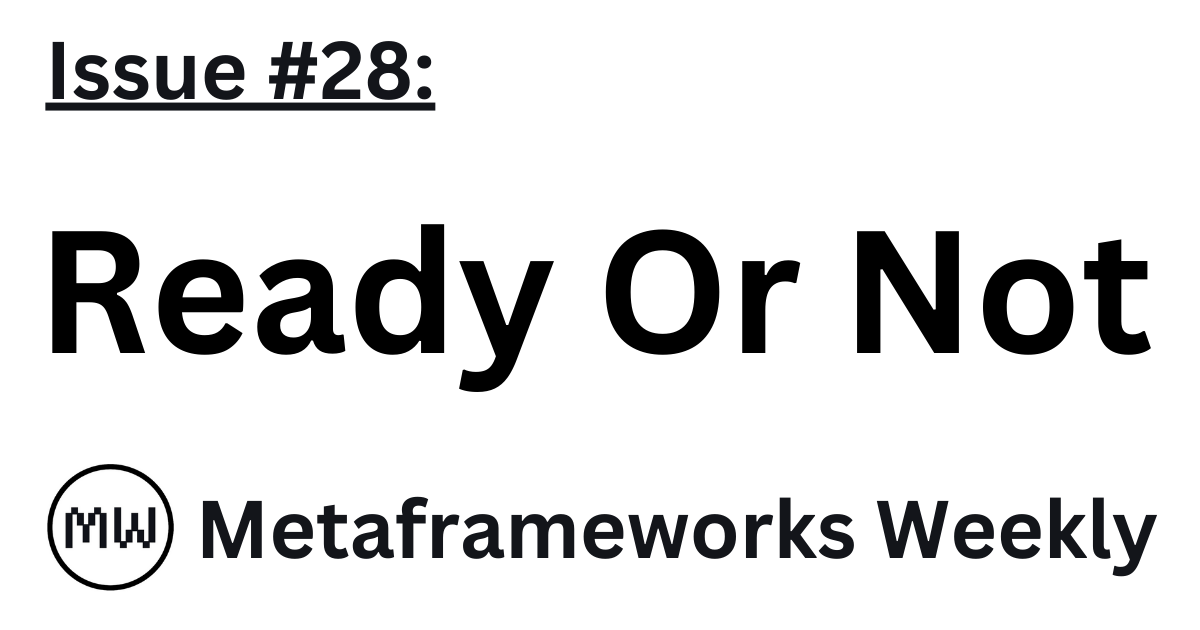
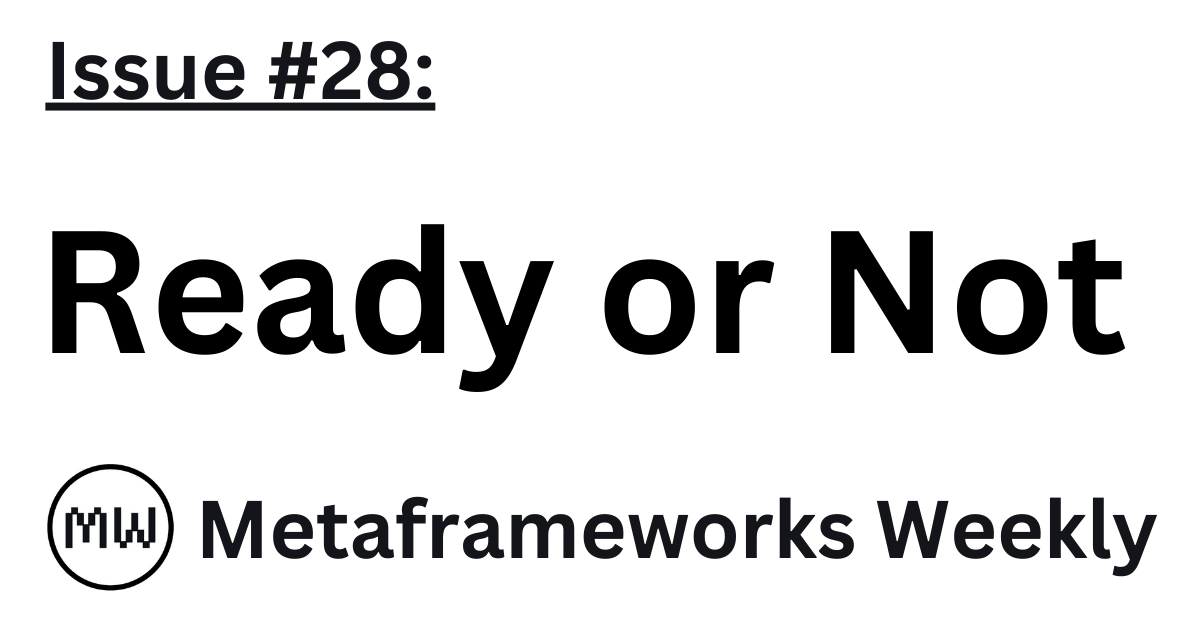
content: issue 28 proofread

Changed region(s): [[0.4933, 0.3619, 0.9558, 0.573]]

diff --git a/src/content/archive/28.md b/src/content/archive/28.md
@@ -1,6 +1,6 @@
 ---
-title: "Issue #28: Ready Or Not"
-description: "Let's figure out why some stuff comes as a nice surprise, some stuff enters accompanied with long anticipation and suspense, and some chimes in totally unsolicited or even unnecessary."
+title: "Issue #28: Ready or Not"
+description: "Let's figure out why some things come as nice surprises, some arrive with long anticipation and suspense, and some appear totally unsolicited or even unnecessary."
 pubDate: "Aug 18 2025"
 published: true
 heroImage: "/issue-covers/28.png"
@@ -9,30 +9,30 @@ tags: ["sveltekit", "waku", "fresh", "redwoodjs", "astro", "security"]
 
 [🎶 _Here I come, you can't hide, gonna find you and make you want me..._ 🎶](https://www.youtube.com/watch?v=aIXyKmElvv8&list=PLYRq_7Yox1jDETeL_YgKUc8DXduCV9jA2&index=29)
 
-Some weeks bring really impressive amounts of updates in the metaframeworks world. Just recently I lamented that Summer is too peaceful and calm, and now the August is getting really hot, presumably preparing for the September's back-to-school madness. Let's see what webdev fireworks the last week had brought to us.
+Some weeks bring really impressive amounts of updates in the metaframeworks world. Just recently I lamented that summer is too peaceful and calm, and now August is getting really hot, presumably preparing for September's back-to-school madness. Let's see what webdev fireworks the last week has brought to us.
 
 ## The Good
 
-In the previous issue I [had mentioned the nice tradition](https://metaframe.works/archive/27/#:~:text=I%20love%20the%20practice%20of%20monthly%20news%20posts%20from%20the%20Astro%20team) of coming up with a monthly summary of ecosystem updates adopted by some open source maintainers. And I had totally missed [the awesome version of it](https://svelte.dev/blog/whats-new-in-svelte-august-2025) from Svelte guys. [One of the updates](https://www.reddit.com/r/sveltejs/comments/1mnmad3/sveltekit_finally_has_server_functions/) specifically related to SvelteKit is [the remote functions feature](https://svelte.dev/docs/kit/remote-functions). There was [a lot of work](https://github.com/sveltejs/kit/discussions/13897) dedicated to making that happen and this possibility of separating application concerns even more in the full-stack SvelteKit web apps give a lot of room for imagination and technical creativity. One of the reasons for (_and enablements from_) remote functions was in-app communication safety and security and Rich Harris had made [the thorough breakdown on some details of this aspect](https://bsky.app/profile/rich-harris.dev/post/3lw5zsctp7k2x) on Bluesky. All in all, it's one of the most interesting and exciting metaframework features lately so worth attention and playing with (_and updating your SvelteKit apps where you feel it applicable_).
+In the previous issue I [had mentioned the nice tradition](https://metaframe.works/archive/27/#:~:text=I%20love%20the%20practice%20of%20monthly%20news%20posts%20from%20the%20Astro%20team) of coming up with a monthly summary of ecosystem updates adopted by some open source maintainers. And I had totally missed [the awesome version of it](https://svelte.dev/blog/whats-new-in-svelte-august-2025) from the Svelte team. [One of the updates](https://www.reddit.com/r/sveltejs/comments/1mnmad3/sveltekit_finally_has_server_functions/) specifically related to SvelteKit is [the remote functions feature](https://svelte.dev/docs/kit/remote-functions). There was [a lot of work](https://github.com/sveltejs/kit/discussions/13897) dedicated to making that happen, and this possibility of separating application concerns even more in full-stack SvelteKit web apps gives a lot of room for imagination and technical creativity. One of the reasons for (_and enablements from_) remote functions was in-app communication safety and security, and Rich Harris had made [a thorough breakdown of some details of this aspect](https://bsky.app/profile/rich-harris.dev/post/3lw5zsctp7k2x) on Bluesky. All in all, it's one of the most interesting and exciting metaframework features lately, so worth attention and playing with (_and updating your SvelteKit apps where you feel it applicable_).
 
-In the similar vein, Daishi Kato, the creator of Waku, announced the new feature of his metaframework — [slices](https://newsletter.daishikato.com/p/waku-gets-slices-api-inspired-by-gatsby) (_and lazy slices_). The concept is largely inspired by [Gatsby's (_RIP!_) slices](https://www.gatsbyjs.com/docs/how-to/performance/using-slices/) and provides developers with primitives similar to "islands" or "deferrable views" from other frameworks with some Waku's architectural specifics.
+In a similar vein, Daishi Kato, the creator of Waku, announced the new feature of his metaframework — [slices](https://newsletter.daishikato.com/p/waku-gets-slices-api-inspired-by-gatsby) (_and lazy slices_). The concept is largely inspired by [Gatsby's (_RIP!_) slices](https://www.gatsbyjs.com/docs/how-to/performance/using-slices/) and provides developers with primitives similar to "islands" or "deferrable views" from other frameworks with some Waku-specific architectural details.
 
-And last but not least in the list — some sneak peek into Fresh 2, Deno's Preact-based metaframework future release, in [the article by Kitson P. Kelly](https://kitsonkelly.com/posts/fresh-2-deploy-ea). And even though there are not many new exciting features planned for that, it's still nice to see the work happening, as you can expect a good amount of innovation from the awesome Deno team.
+And last but not least in the list — a sneak peek into Fresh 2, Deno's Preact-based metaframework's future release, in [the article by Kitson P. Kelly](https://kitsonkelly.com/posts/fresh-2-deploy-ea). And even though there aren't many new exciting features planned for that, it's still nice to see the work happening, as you can expect a good amount of innovation from the awesome Deno team.
 
-> Fresh 2, at this stages, feels like more of a maintenance release where the underpinnings have been invested in, some of which mandate pretty material shifts to migrate from Fresh 1 to Fresh 2 without any major new features or capabilities.
+> Fresh 2, at this stage, feels like more of a maintenance release where the underpinnings have been invested in, some of which mandate pretty material shifts to migrate from Fresh 1 to Fresh 2 without any major new features or capabilities.
 
 ## The Bad
 
-Alex Petros of htmx (_providing pretty decent credibility for the topic I'm gonna announce_) gave a talk with perturbing (_for us, frontend engineers_) title of ["What's Left for Frontend Engineers?"](https://www.youtube.com/watch?v=z7M2inHiT4Y) (_with the accompanying [TL;DR post](https://unplannedobsolescence.com/talks/whats-left-for-frontend-engineers/) for those of us who's into ~~skimming~~ reading_). The web UIs plumbing remnants that he predicts to have keeping us busy in the nearest years are a bit disappointing but on the other hand, these observations confirm my (_obvious for this newsletter_) theory of metaframeworks getting a hold of the web dev of 21st century (_everyone in media has the right for bold prophecies_). So if you're a zealot frontend developer, consider smoothing your "T"-shaped knowledge to "t" or some other (_more ramified_) character.
+Alex Petros of htmx (_providing pretty decent credibility for the topic I'm gonna announce_) gave a talk with a perturbing (_for us, frontend engineers_) title: ["What's Left for Frontend Engineers?"](https://www.youtube.com/watch?v=z7M2inHiT4Y) (_with the accompanying [TL;DR post](https://unplannedobsolescence.com/talks/whats-left-for-frontend-engineers/) for those of us who are into ~~skimming~~ reading_). The web UI plumbing remnants that he predicts will keep us busy in the nearest years are a bit disappointing, but on the other hand, these observations confirm my (_obvious for this newsletter_) theory of metaframeworks getting a hold on the web dev of the 21st century (_everyone in media has the right for bold prophecies_). So if you're a zealous frontend developer, consider smoothing your "T"-shaped knowledge to "t" or some other (_more ramified_) character.
 
-And while you do that, and getting overwhelmed and panicked of [the amount of choice](https://metaframe.works/comparison/), remember that nobody, even the most clever guys, even the framework creators and maintainers, know everything and can have the clear idea of what to do and how to do it. For instance, the RedwoodSDK guys, [having had split up](<https://metaframe.works/archive/12/#:~:text=The%20RedwoodJS%20team%20had%20come%20with%20a%20huge%20(and%20unexpected)%20split>) with Redwood GraphQL several months ago, try to promote [the repo](https://github.com/redwoodjs/sdk) at all costs (_congrats with the ⭐1k milestone! 🎉_). And one funny way they do it is something new to me — [posting the ads](https://github.com/redwoodjs/graphql/releases/tag/announce-redwoodsdk) into/as the release/tag of another repo (_the very [Redwood GraphQL](https://github.com/redwoodjs/graphql)_). Is it weird? Definitely so. Is it worth it? Probably, but arguably. Anyway, now I know a thing more about open-source guerilla, thanks guys!
+And while you do that, and get overwhelmed and panicked by [the amount of choice](https://metaframe.works/comparison/), remember that nobody, even the most clever guys, even the framework creators and maintainers, know everything and can have a clear idea of what to do and how to do it. For instance, the RedwoodSDK team, [having split up](<https://metaframe.works/archive/12/#:~:text=The%20RedwoodJS%20team%20had%20come%20with%20a%20huge%20(and%20unexpected)%20split>) with Redwood GraphQL several months ago, tries to promote [the repo](https://github.com/redwoodjs/sdk) at all costs (_congrats on the ⭐1k milestone! 🎉_). And one funny way they do it is something new to me — [posting ads](https://github.com/redwoodjs/graphql/releases/tag/announce-redwoodsdk) into/as the release/tag of another repo (_the very [Redwood GraphQL](https://github.com/redwoodjs/graphql)_). Is it weird? Definitely so. Is it worth it? Probably, but arguably. Anyway, now I know one more thing about open-source guerrilla marketing, thanks guys!
 
 ## The Noteworthy
 
-Astro team, prolific as usual, had released [the new minor 5.13](https://astro.build/blog/astro-5130/) (_they call "Lucky" in the hope to get away from the nemesis of doom_) with some nuggets like multiple sitemaps and enums in Astro DB tables. Honestly, why would anyone use anything else (_for static websites at least_) in 2025?!
+The Astro team, prolific as usual, has released [the new minor 5.13](https://astro.build/blog/astro-5130/) (_they call it "Lucky" in the hope of getting away from the nemesis of doom_) with some nuggets like multiple sitemaps and enums in Astro DB tables. Honestly, why would anyone use anything else (_for static websites at least_) in 2025?!
 
-BTW, for some shameful reasons Astro is missing in the list of participants of the new beginning from Github (_which is just an identity-less [part of some minor MS department](https://arstechnica.com/gadgets/2025/08/github-will-be-folded-into-microsoft-proper-as-ceo-steps-down/) now I guess, but still_) — [GitHub Secure Open Source Fund](https://github.blog/open-source/maintainers/securing-the-supply-chain-at-scale-starting-with-71-important-open-source-projects/). This fund includes all the cool guys from the metaframeworks scene now — Next, Nuxt, and Svelte, and it sounds like a good addition to all the investment these projects get lately.
+BTW, for some shameful reasons Astro is missing from the list of participants in the new beginning from GitHub (_which is just an identity-less [part of some minor MS department](https://arstechnica.com/gadgets/2025/08/github-will-be-folded-into-microsoft-proper-as-ceo-steps-down/) now I guess, but still_) — [GitHub Secure Open Source Fund](https://github.blog/open-source/maintainers/securing-the-supply-chain-at-scale-starting-with-71-important-open-source-projects/). This fund includes all the cool guys from the metaframeworks scene now — Next, Nuxt, and Svelte, and it sounds like a good addition to all the investment these projects get lately.
 
-All in all, the amount of positivity and inventions of all sorts in the industry is increasing (_coinciding with the amount of OpenAI tokens consumed globally, but... nuh..._) and it gives a hope for better outcomes for all of us, metaframeworks users. Or, in the worst case scenario, will present a couple of satisfied smirks to metaframeworks skeptics. We gonna have fun inevitably anyways, so stay tuned!
+All in all, the amount of positivity and inventions of all sorts in the industry is increasing (_coinciding with the amount of OpenAI tokens consumed globally, but... nuh..._) and it gives hope for better outcomes for all of us, metaframeworks users. Or, in the worst case scenario, will present a couple of satisfied smirks to metaframeworks skeptics. We're gonna have fun inevitably anyway, so stay tuned!
 
 👋
